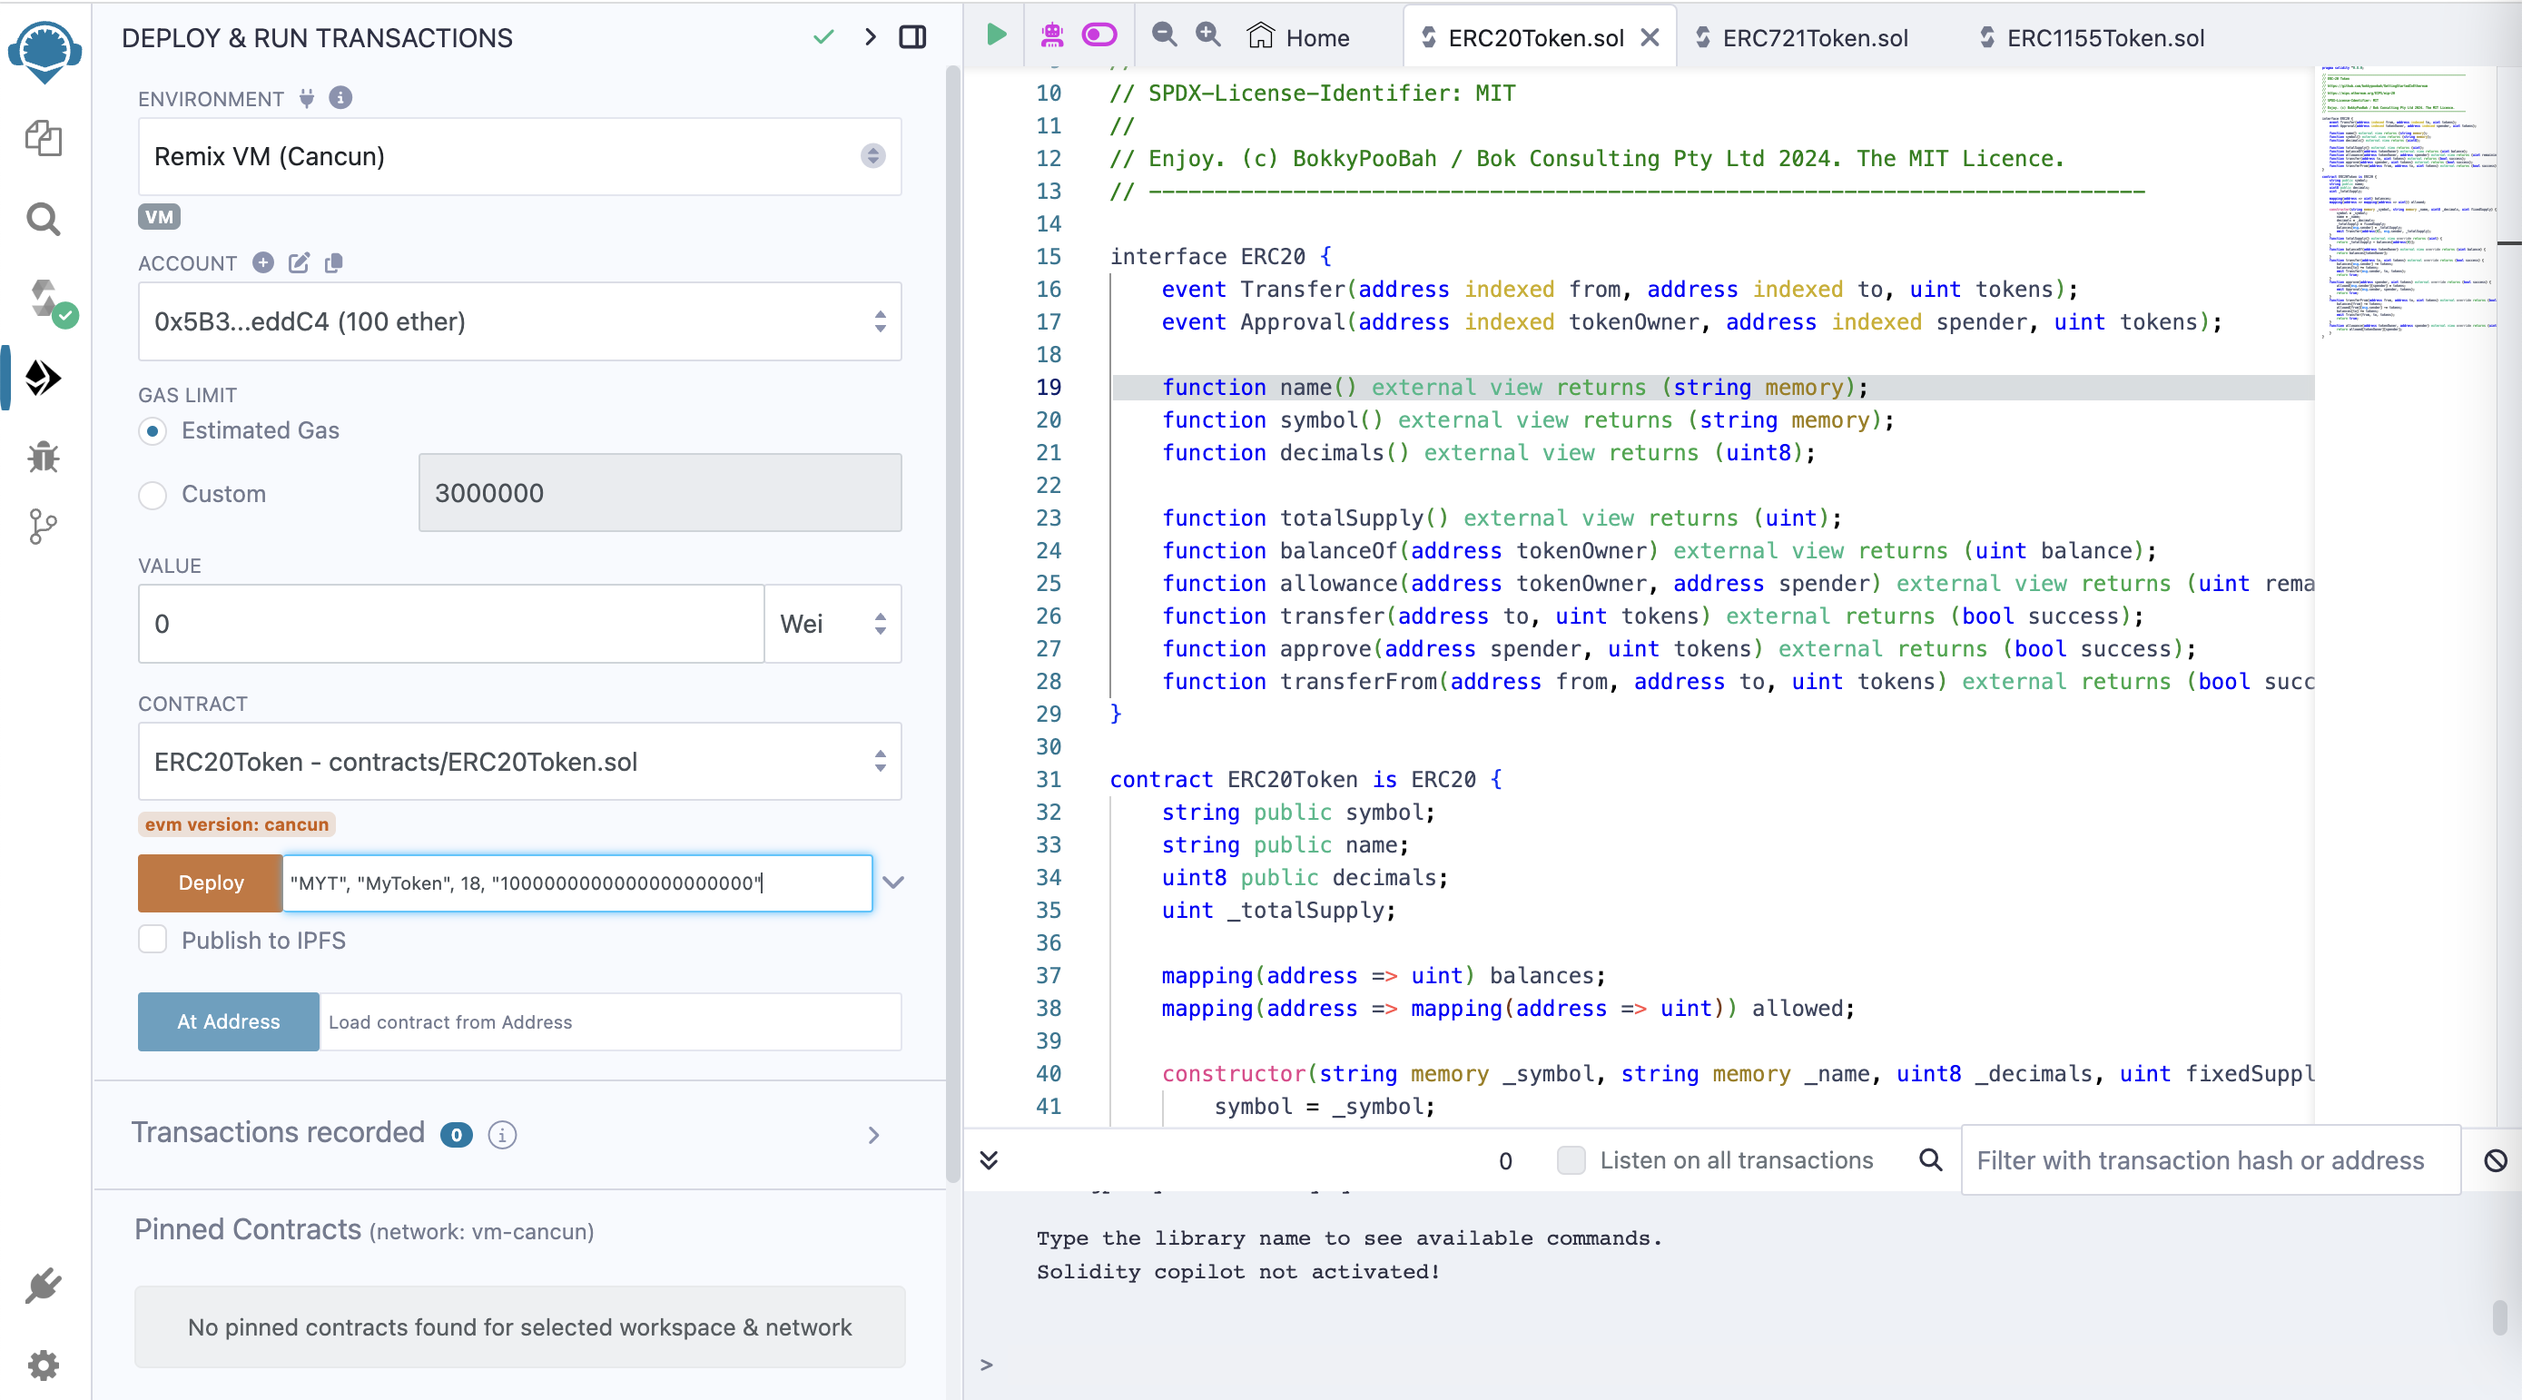
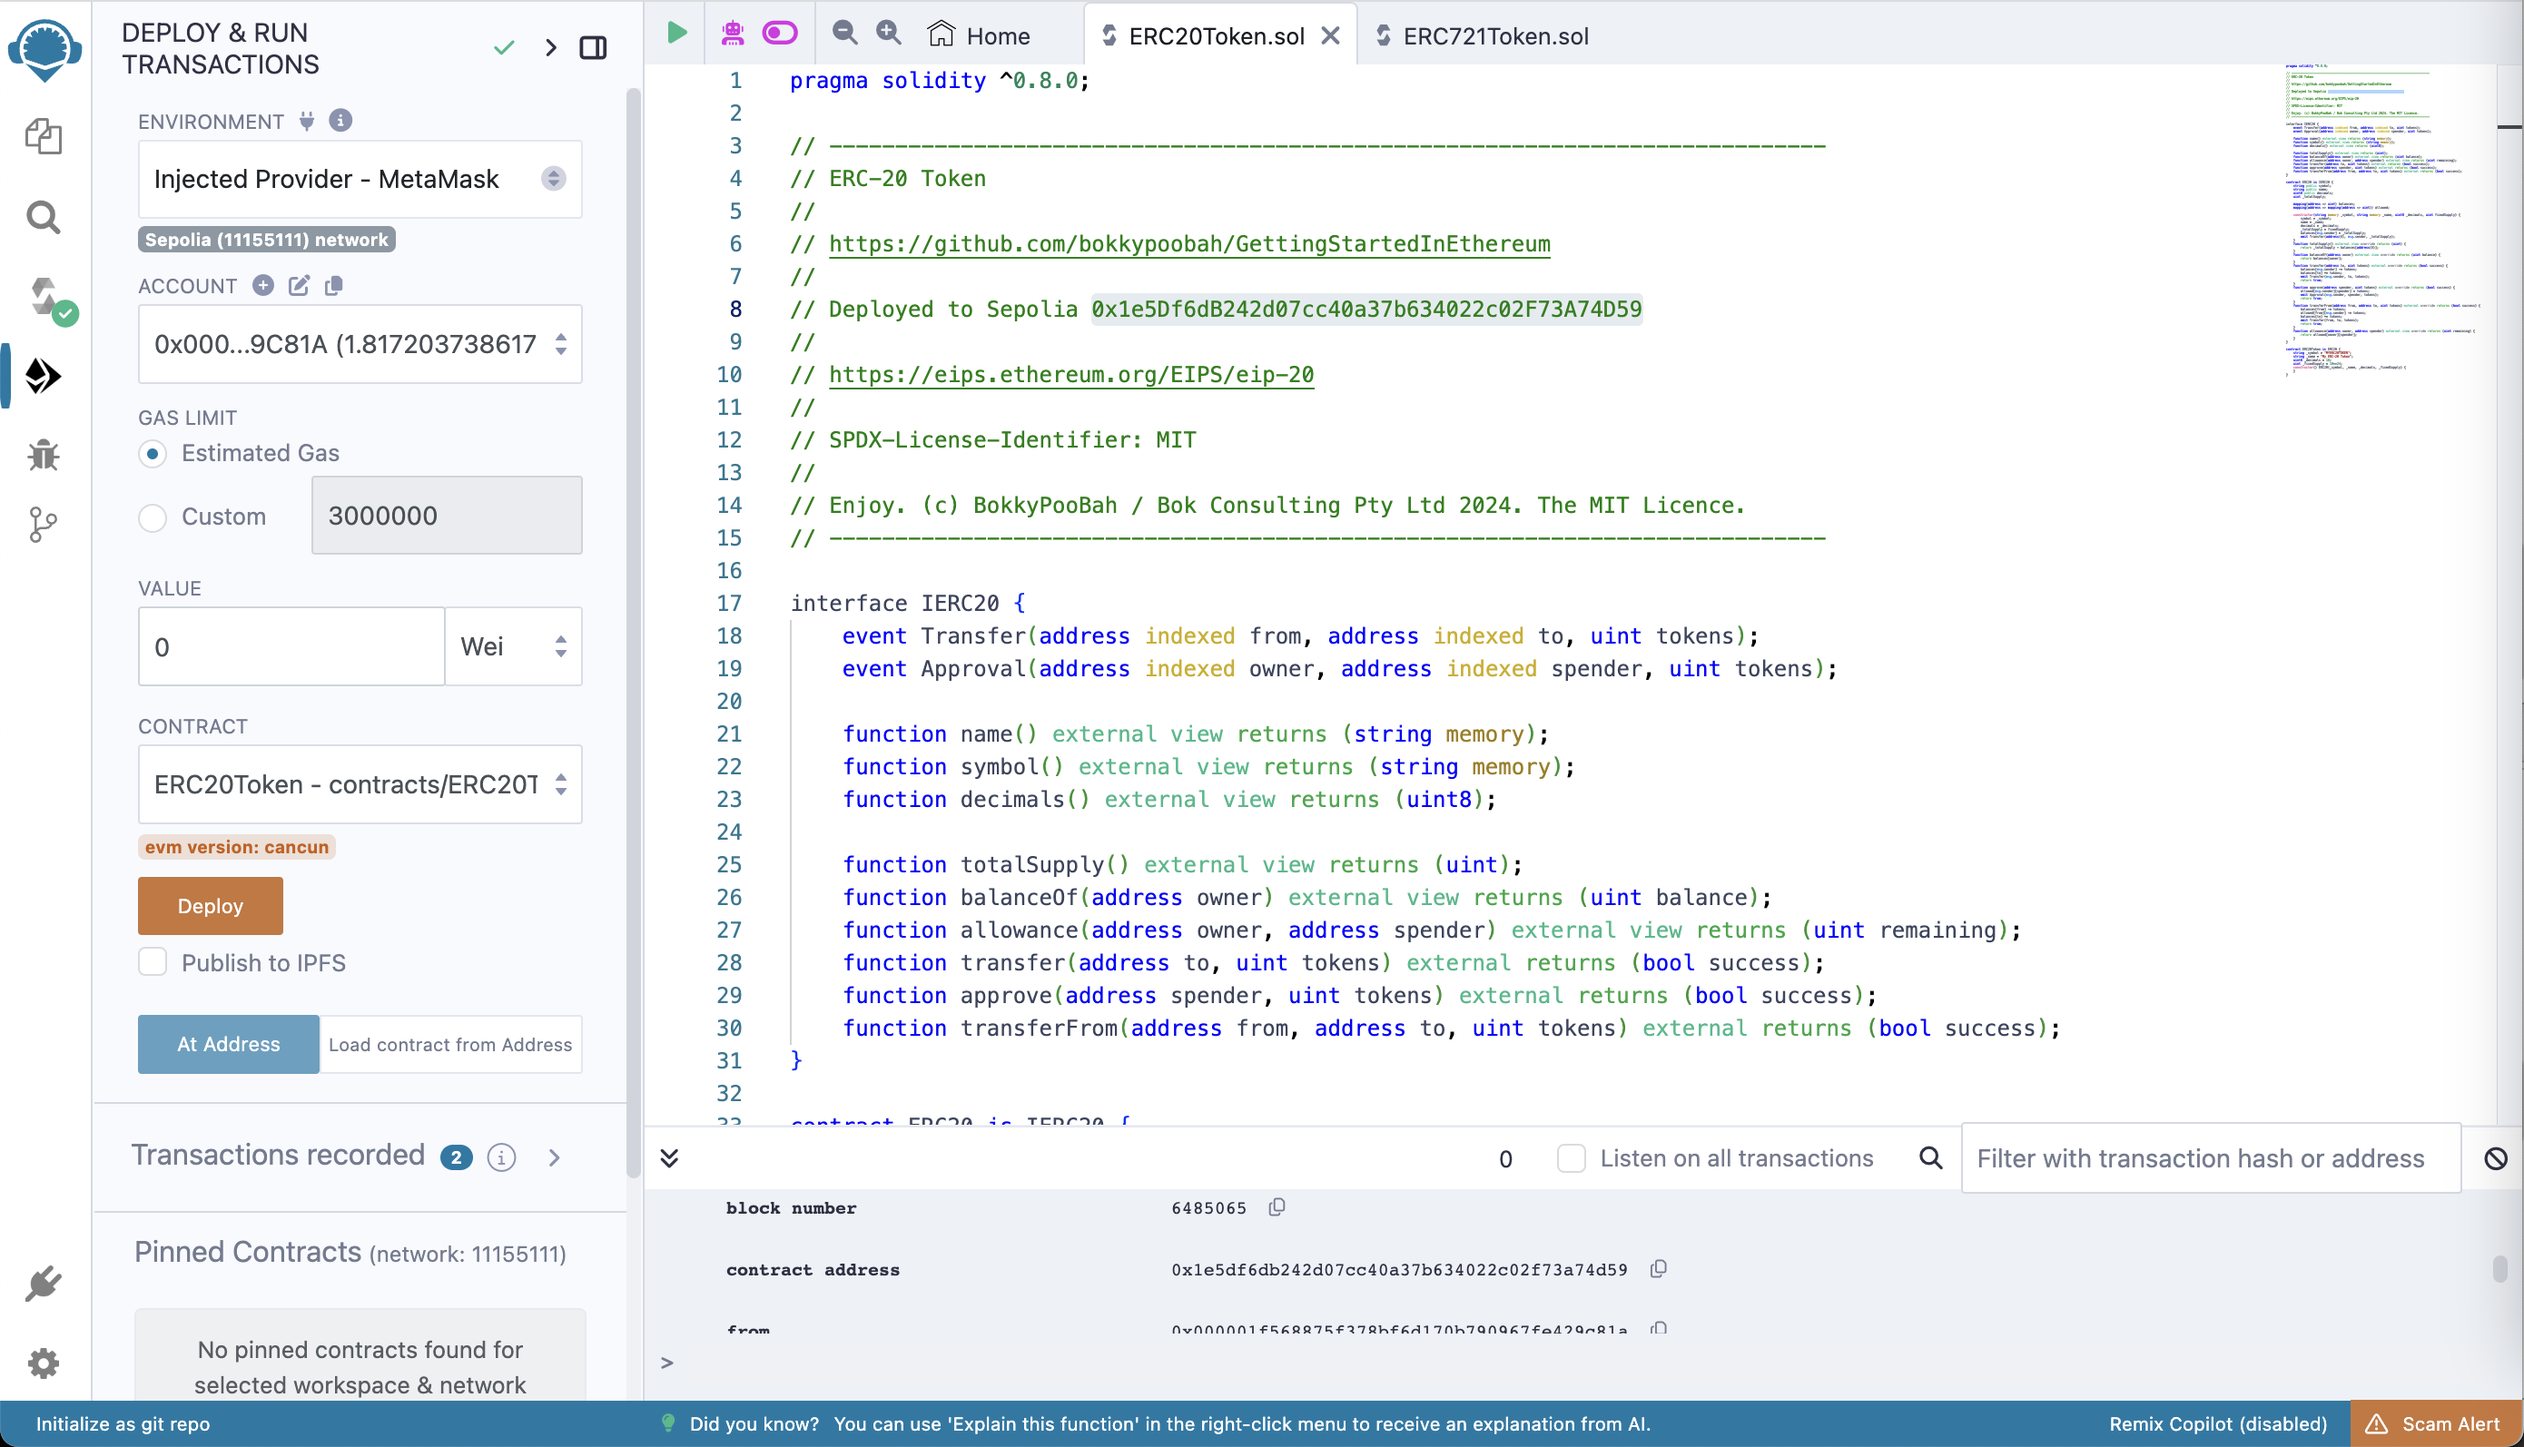
Deployed ERC20Token.sol to Sepolia

diff --git a/README.md b/README.md
@@ -55,6 +55,8 @@ Use [https://remix.ethereum.org/](https://remix.ethereum.org/) to deploy your sm
 
 <kbd><img src="images/Deploy-ERC-20.png" /></kbd>
 
+Example [contracts/ERC20Token.sol](contracts/ERC20Token.sol) deployed to Sepolia at [https://sepolia.etherscan.io/address/0x1e5df6db242d07cc40a37b634022c02f73a74d59](https://sepolia.etherscan.io/address/0x1e5df6db242d07cc40a37b634022c02f73a74d59#code)
+
 ### View And Interact With Your ERC-20 Contract
 
 View and interact with your ERC-20 token contract on [https://bokkypoobah.github.io/GetStartedWithDevelopingInEthereum/](https://bokkypoobah.github.io/GetStartedWithDevelopingInEthereum/)
